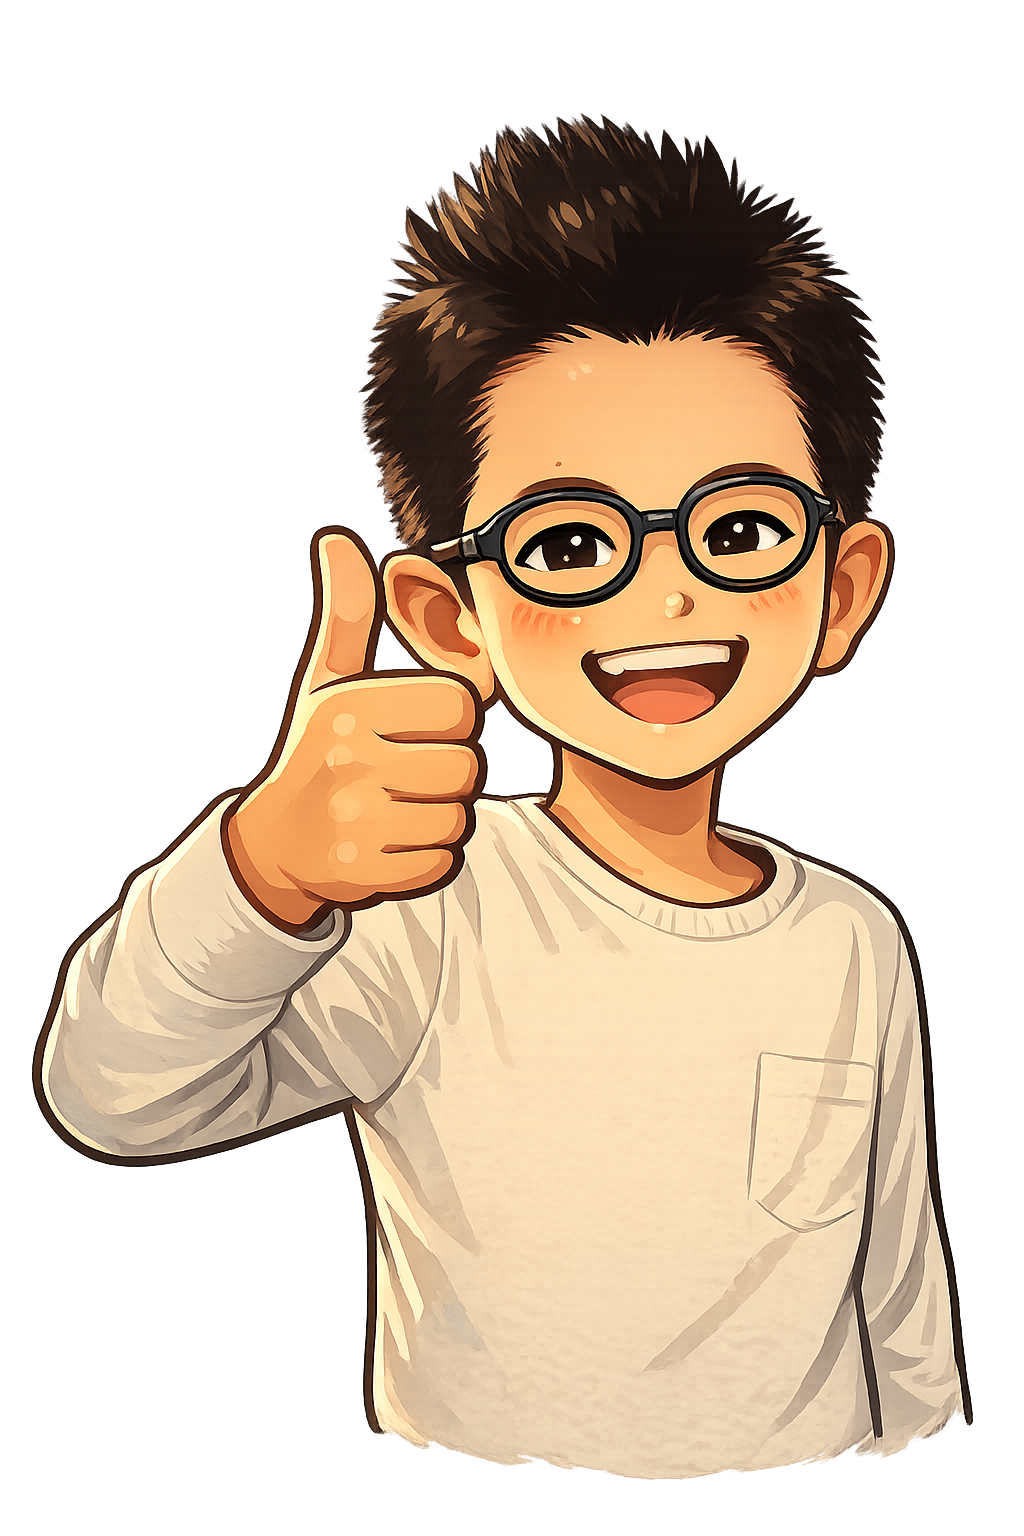
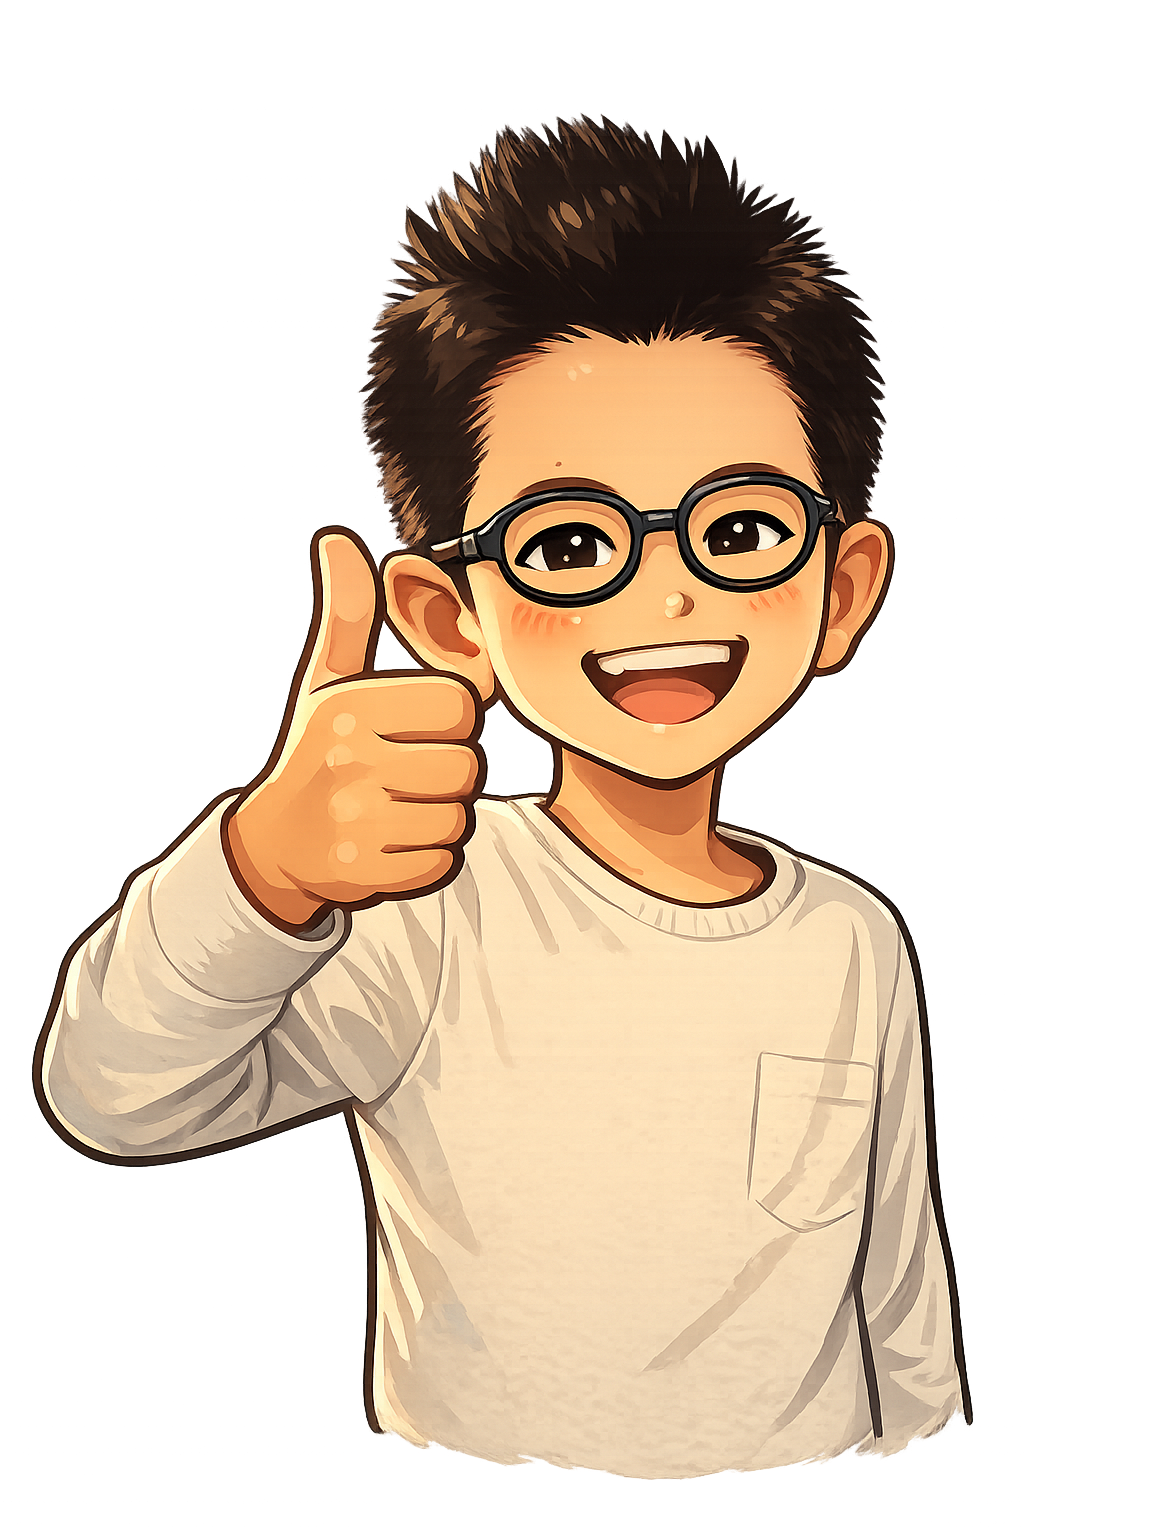
mobile size fixes

diff --git a/style.css b/style.css
@@ -269,8 +269,9 @@ body {
   inset: 0;
   background: #0d0d1a;
   display: flex;
-  align-items: center;
+  align-items: flex-start;
   justify-content: center;
+  overflow-y: auto;
   z-index: 200;
 }
 
@@ -278,6 +279,8 @@ body {
   text-align: center;
   max-width: 600px;
   width: 92%;
+  margin: auto;
+  padding: 32px 0;
 }
 
 #title-heading {
@@ -306,7 +309,7 @@ body {
   height: 216px;
   border-radius: 50%;
   object-fit: cover;
-  object-position: 40% top;
+  object-position: 25% top;
   border: 2px solid #0f3460;
   box-shadow: 0 0 10px rgba(233,69,96,0.35);
 }
@@ -531,3 +534,48 @@ body {
 #shop-continue:hover { background: #c73652; }
 
 .hidden { display: none !important; }
+
+/* ── Mobile ───────────────────────────────────────────────────────────────── */
+@media (max-width: 700px) {
+  /* Board area scrolls horizontally rather than the whole page overflowing */
+  #board-area {
+    overflow-x: auto;
+    justify-content: flex-start;
+    width: 100%;
+  }
+
+  /* Prevent double-tap zoom on the canvas */
+  #game-canvas { touch-action: manipulation; }
+
+  /* Hide the instructions sidebar — not useful on mobile */
+  #sidebar { display: none; }
+
+  /* Slimmer header */
+  #header { padding: 7px 12px; }
+  #wave-label  { font-size: 1.05em; }
+  #moves-label { font-size: 0.8em; }
+  #score-label { font-size: 1em; }
+  #potential-label { font-size: 0.78em; }
+
+  /* Title screen */
+  #title-box { padding: 20px 0; }
+  #title-heading { font-size: 1.9em; margin-bottom: 4px; }
+  #title-sub { font-size: 0.88em; margin-bottom: 4px; }
+  #title-credit-row { gap: 14px; margin-bottom: 16px; }
+  #vincent-img { width: 72px; height: 72px; }
+  #title-credit { font-size: 0.95em; }
+  #difficulty-row { flex-wrap: wrap; gap: 8px; margin-bottom: 14px; }
+  #campaign-list { gap: 12px; margin-bottom: 20px; }
+  .campaign-card { width: 100%; max-width: 300px; padding: 14px 18px; }
+  .campaign-desc { min-height: unset; margin-bottom: 12px; }
+  #title-saves { padding-top: 14px; }
+  #title-save-slots { gap: 8px; }
+
+  /* Overlays: scrollable and don't overflow viewport */
+  #shop-box, #menu-box, #message-box, #promo-box {
+    max-height: 88vh;
+    overflow-y: auto;
+    padding: 20px 16px;
+  }
+  #shop-box { width: 96%; }
+}

diff --git a/index.html b/index.html
@@ -2,6 +2,7 @@
 <html lang="en">
 <head>
   <meta charset="UTF-8">
+  <meta name="viewport" content="width=device-width, initial-scale=1">
   <title>Chess vs Checkers</title>
   <link rel="stylesheet" href="style.css">
 </head>
